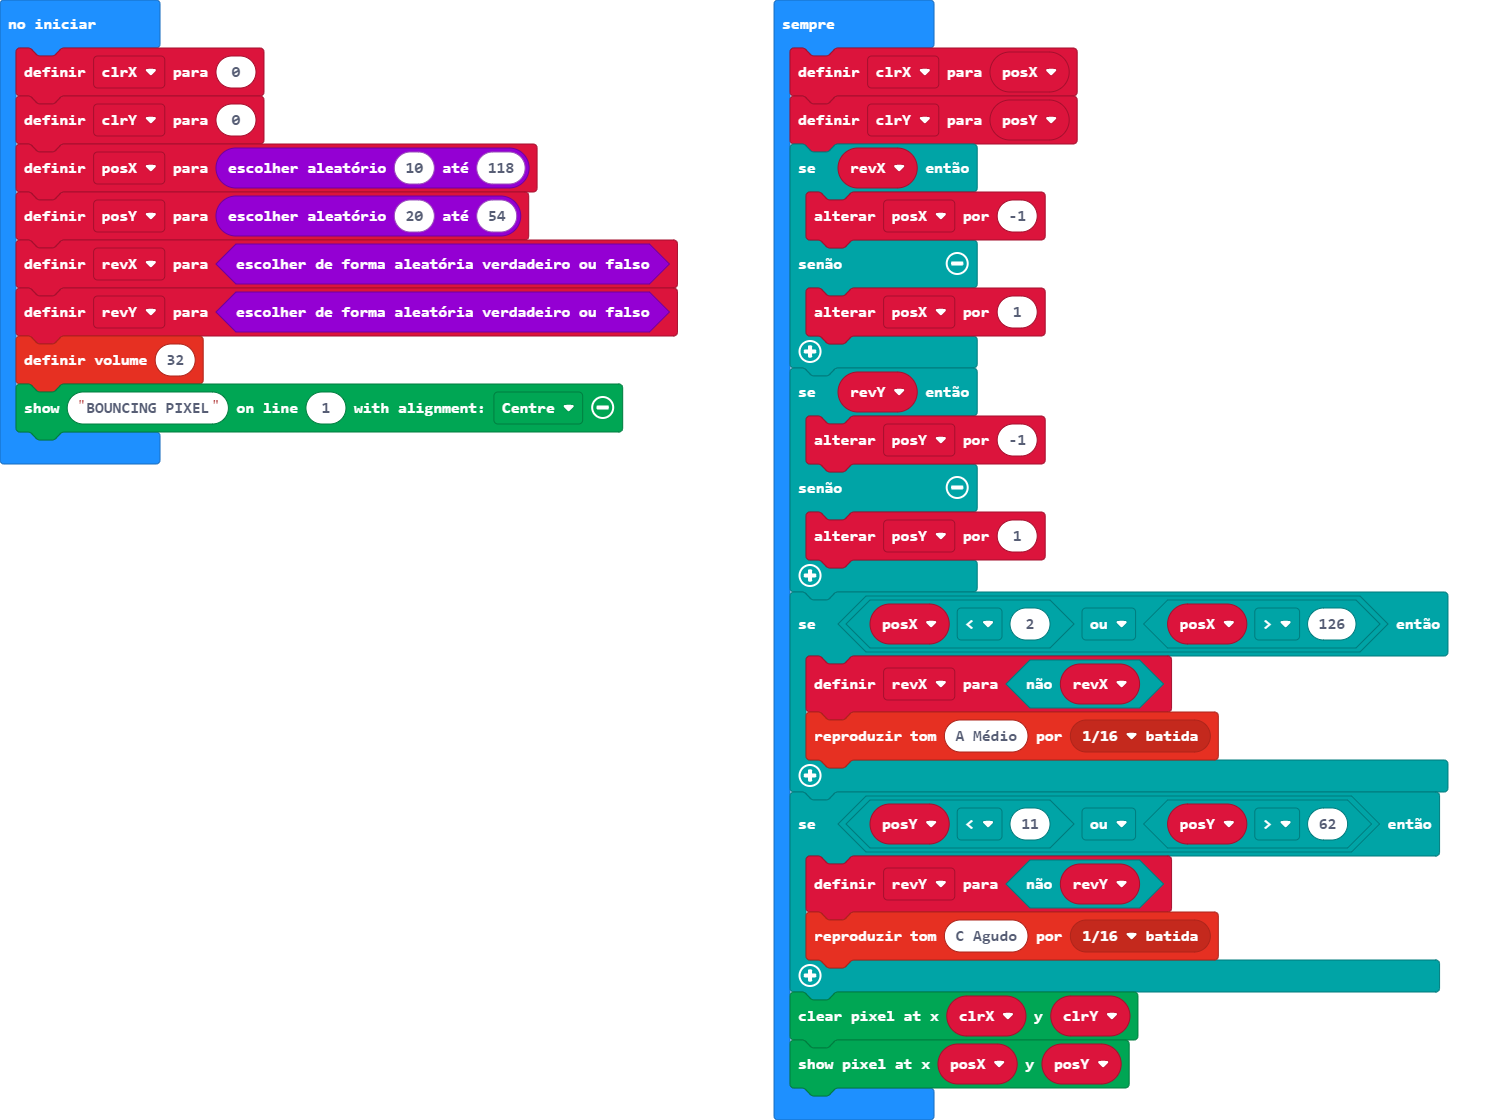
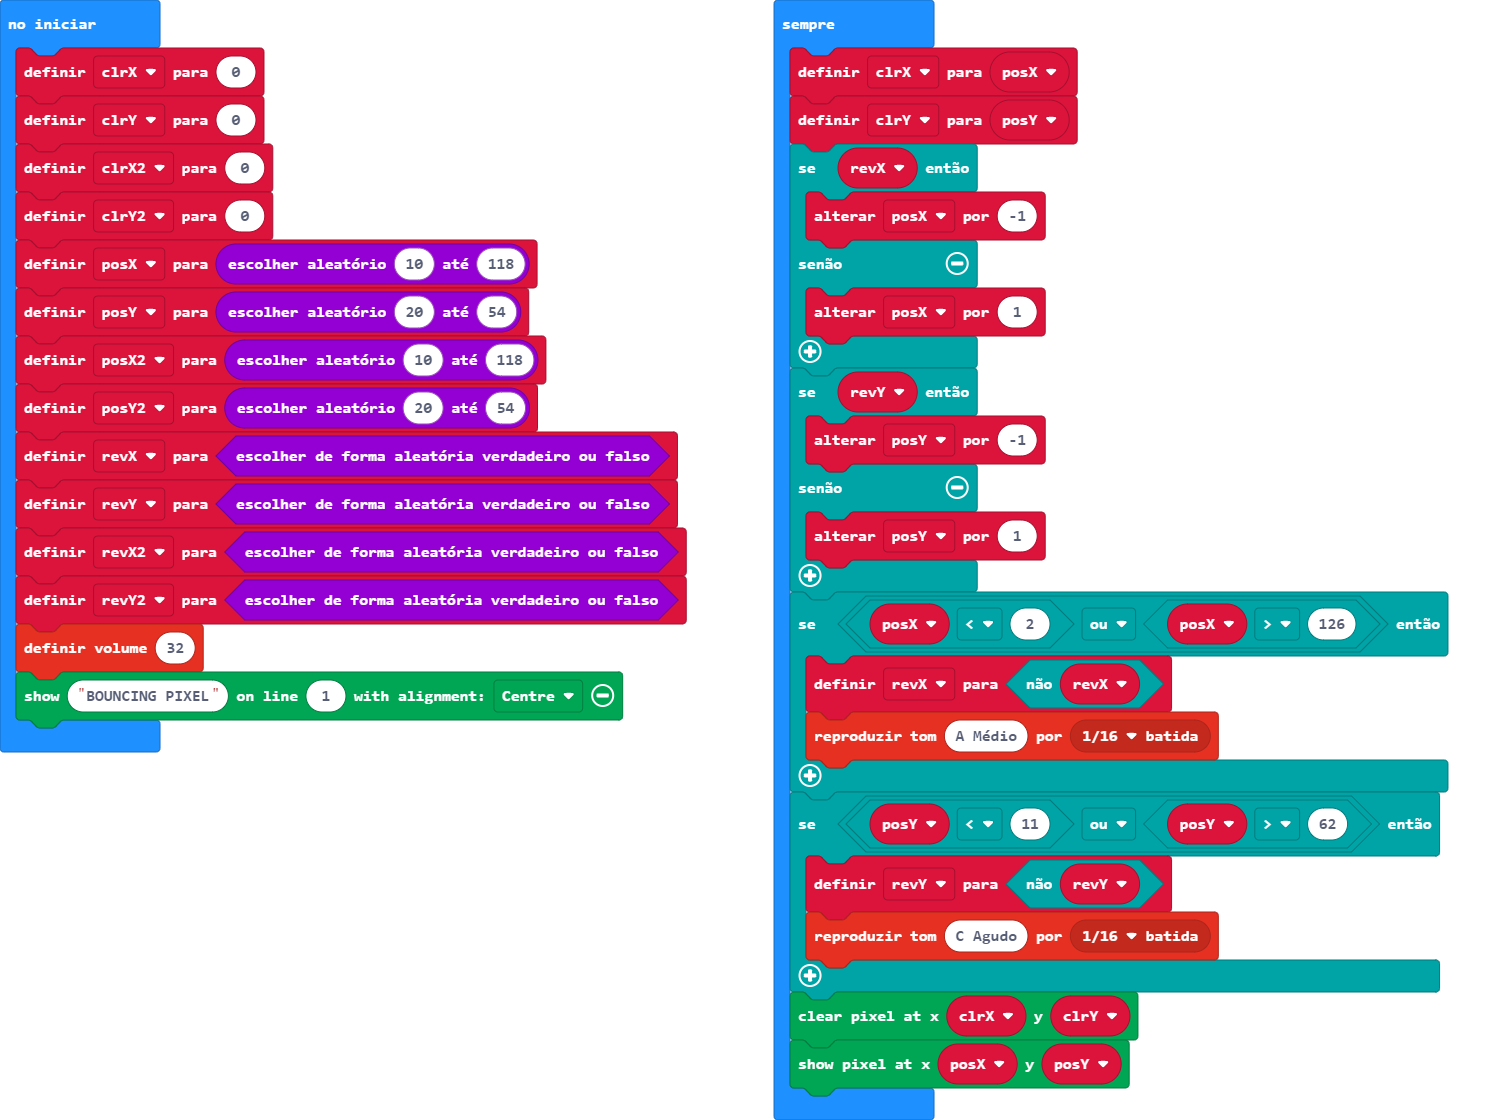
Fork with two bouncing pixels

Changed region(s): [[0.0, 0.125, 0.46, 0.6875]]

diff --git a/main.ts b/main.ts
@@ -1,9 +1,15 @@
 let clrX = 0
 let clrY = 0
+let clrX2 = 0
+let clrY2 = 0
 let posX = randint(10, 118)
 let posY = randint(20, 54)
+let posX2 = randint(10, 118)
+let posY2 = randint(20, 54)
 let revX = Math.randomBoolean()
 let revY = Math.randomBoolean()
+let revX2 = Math.randomBoolean()
+let revY2 = Math.randomBoolean()
 music.setVolume(32)
 kitronik_VIEW128x64.show("BOUNCING PIXEL", 1, kitronik_VIEW128x64.ShowAlign.Centre)
 basic.forever(function () {
